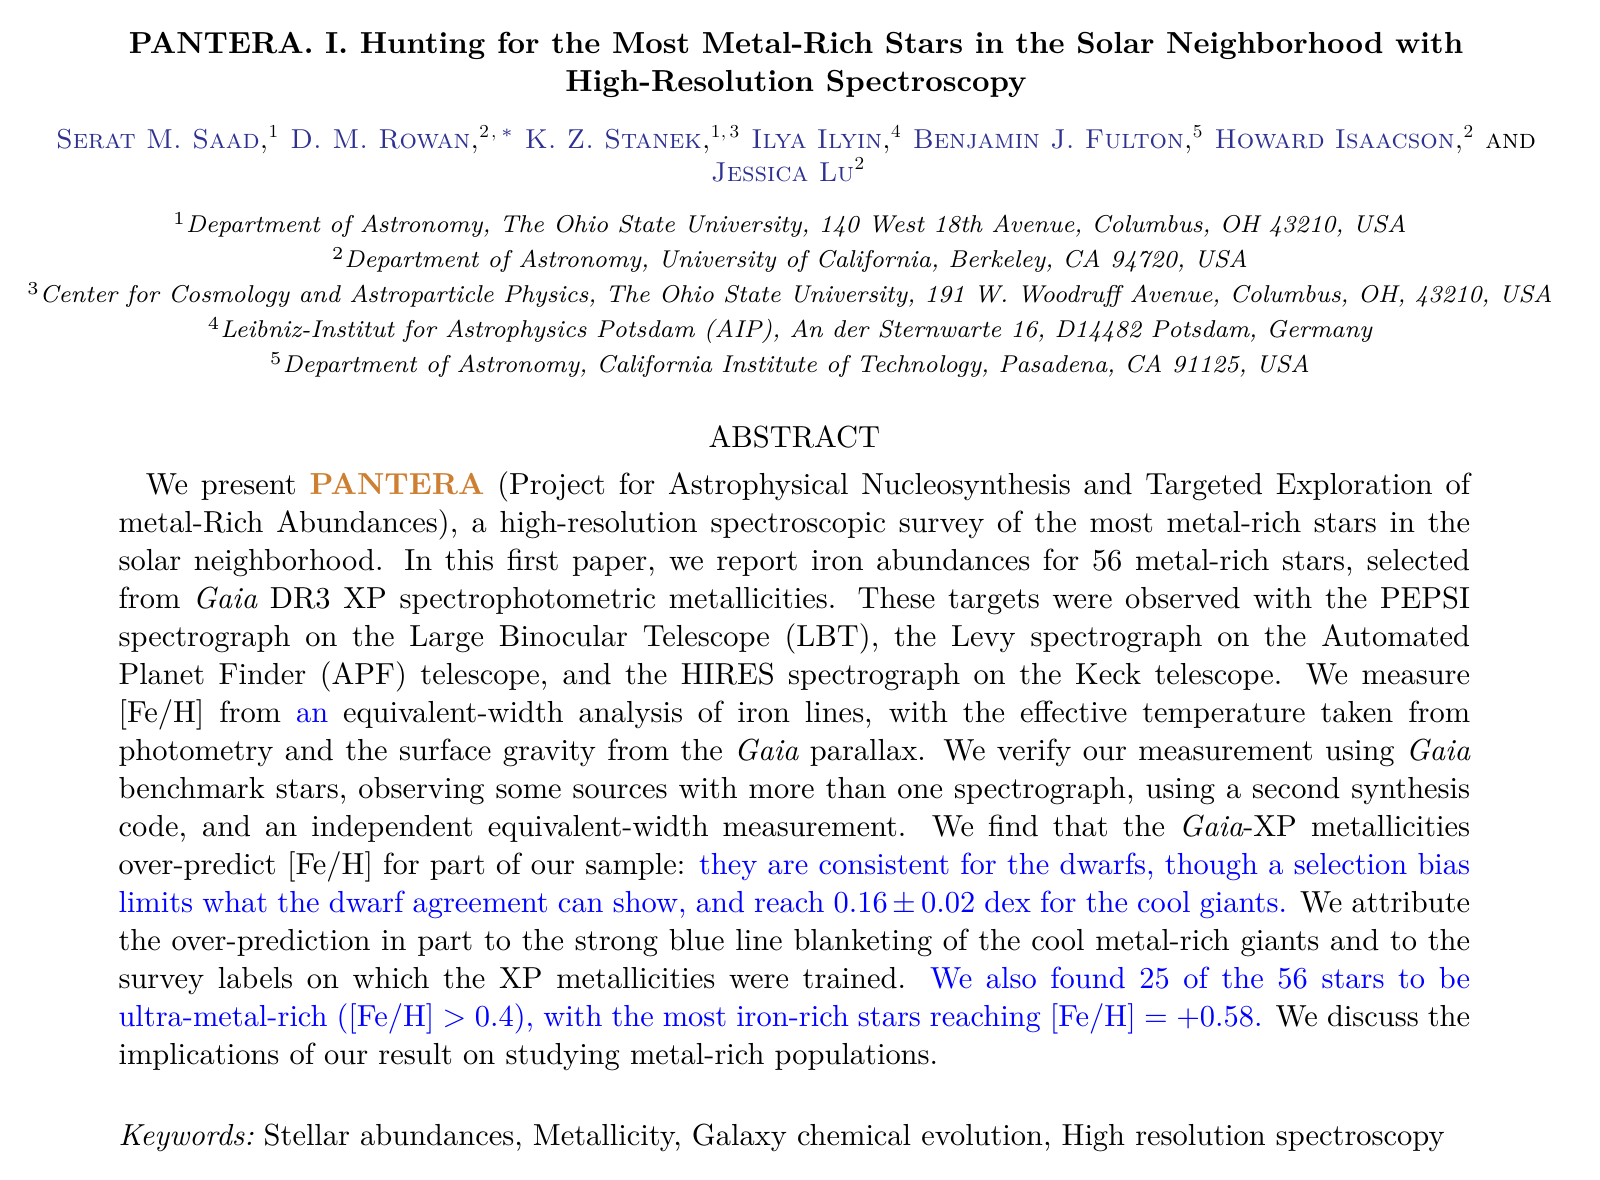
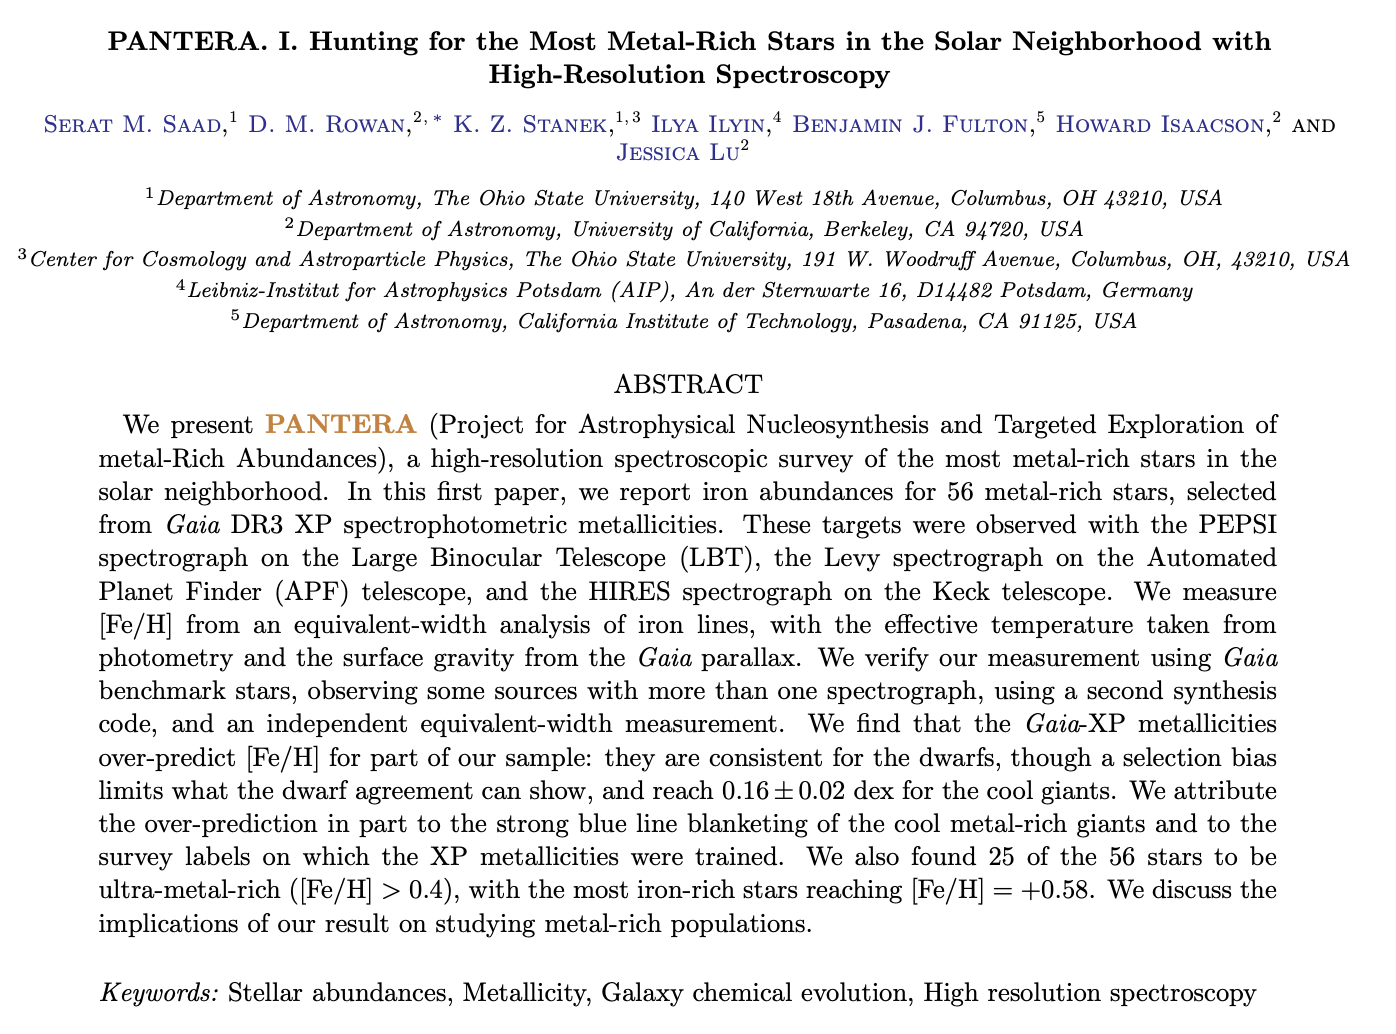
Use author screenshot for abstract, center it smaller (600px)

Changed region(s): [[0.0308, 0.1857, 0.9857, 0.9903], [0.0308, 0.0309, 0.9549, 0.1547]]

diff --git a/assets/style.css b/assets/style.css
@@ -134,7 +134,7 @@ ul.tight li{margin:.4em 0;color:#cfd4dc}
 .star-sm{width:16px;height:16px;vertical-align:-2px;margin-right:8px}
 
 /* ---- paper screenshot ---- */
-.paper-shot{width:100%;max-width:860px;height:auto;display:block;margin:0 auto;
+.paper-shot{width:100%;max-width:600px;height:auto;display:block;margin:0 auto;
   background:#fff;border:1px solid var(--line);border-radius:8px;
   box-shadow:0 12px 44px rgba(0,0,0,.55);transition:.2s}
 a:hover>.paper-shot{box-shadow:0 12px 52px rgba(205,127,50,.25);border-color:rgba(205,127,50,.4)}
